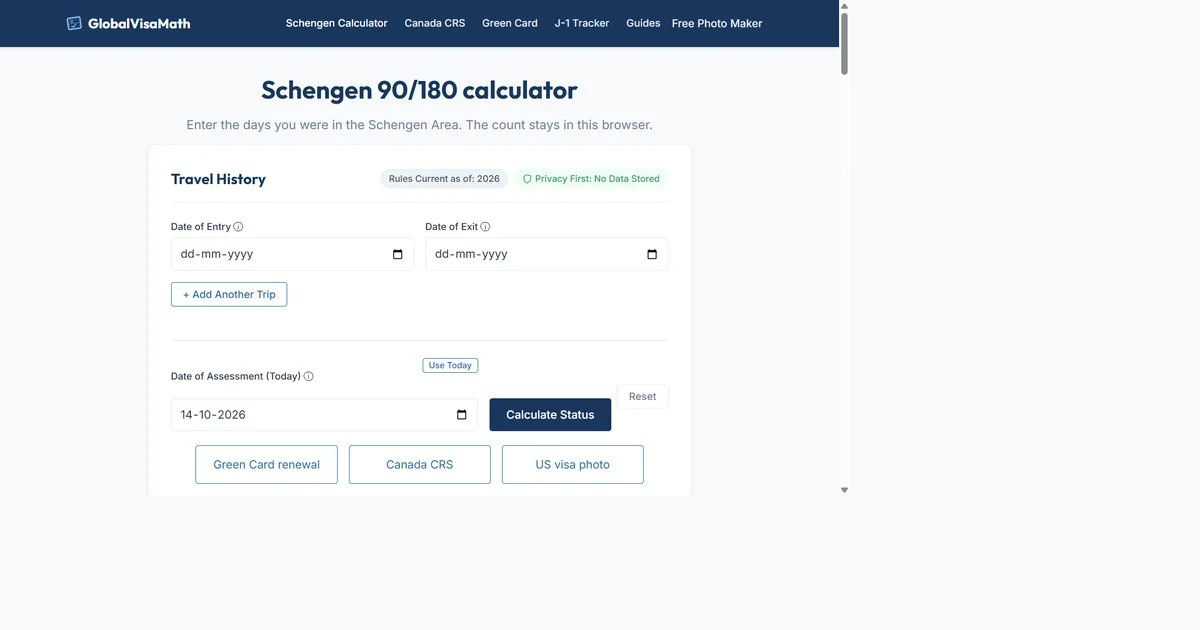
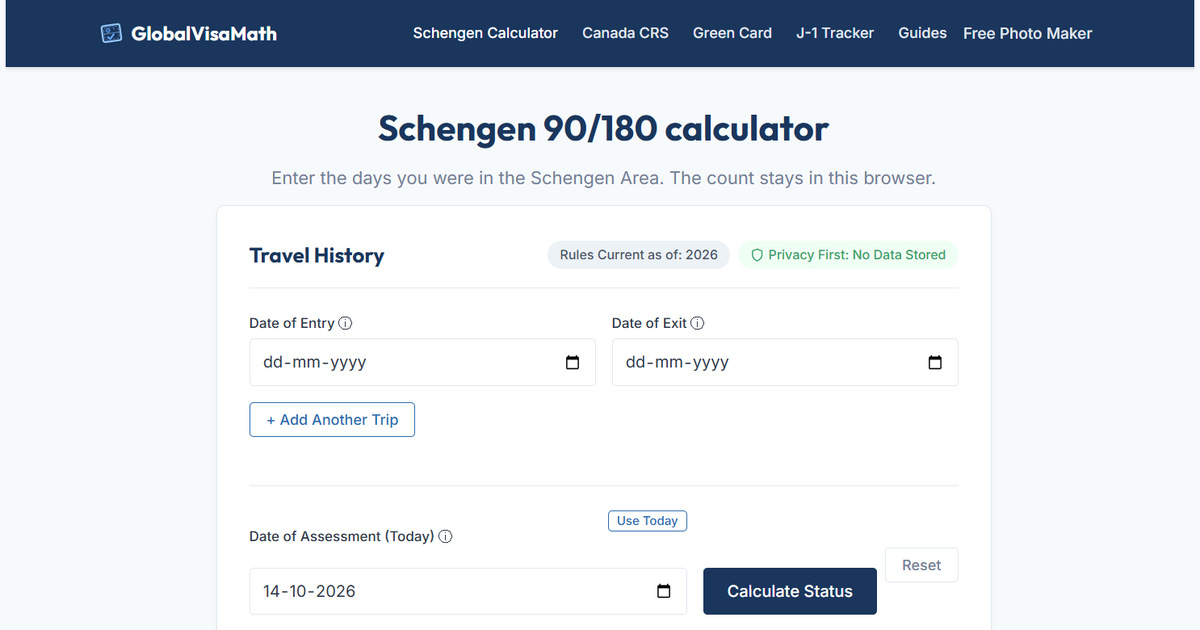
Crop the link preview to the Schengen calculator so the title stays readable.

diff --git a/canada-crs-calculator.html b/canada-crs-calculator.html
@@ -60,7 +60,7 @@
     <meta property="og:url" content="https://www.globalvisamath.com/canada-crs-calculator.html">
     <meta property="og:title" content="Canada Express Entry CRS Calculator | GlobalVisaMath">
     <meta property="og:description" content="Calculate your Canada Express Entry Comprehensive Ranking System (CRS) score. Find your points breakdown and get custom recommendations to improve your immigration score.">
-    <meta property="og:image" content="https://www.globalvisamath.com/og-image.jpg?v=3">
+    <meta property="og:image" content="https://www.globalvisamath.com/og-image.jpg?v=4">
     <meta property="og:image:width" content="1200">
     <meta property="og:image:height" content="630">
 
@@ -69,7 +69,7 @@
     <meta name="twitter:url" content="https://www.globalvisamath.com/canada-crs-calculator.html">
     <meta name="twitter:title" content="Canada Express Entry CRS Calculator | GlobalVisaMath">
     <meta name="twitter:description" content="Calculate your Canada Express Entry Comprehensive Ranking System (CRS) score. Find your points breakdown and get custom recommendations to improve your immigration score.">
-    <meta name="twitter:image" content="https://www.globalvisamath.com/og-image.jpg?v=3">
+    <meta name="twitter:image" content="https://www.globalvisamath.com/og-image.jpg?v=4">
     <script src="https://js.sentry-cdn.com/63c1a1ec186a36c011fc831229bdf952.min.js" crossorigin="anonymous"></script>
 
 </head>

diff --git a/index.html b/index.html
@@ -71,7 +71,7 @@
     <meta property="og:url" content="https://www.globalvisamath.com/">
     <meta property="og:title" content="Immigration & Visa Math Calculators | GlobalVisaMath">
     <meta property="og:description" content="Calculate visa compliance and renewal timelines using free, 100% private tools. Includes Schengen 90/180 calculator, Canada Express Entry CRS score calculator, USCIS Green Card renewal estimator, and J1 visa tracker.">
-    <meta property="og:image" content="https://www.globalvisamath.com/og-image.jpg?v=3">
+    <meta property="og:image" content="https://www.globalvisamath.com/og-image.jpg?v=4">
     <meta property="og:image:width" content="1200">
     <meta property="og:image:height" content="630">
 
@@ -80,7 +80,7 @@
     <meta name="twitter:url" content="https://www.globalvisamath.com/">
     <meta name="twitter:title" content="Immigration & Visa Math Calculators | GlobalVisaMath">
     <meta name="twitter:description" content="Calculate visa compliance and renewal timelines using free, 100% private tools. Includes Schengen 90/180 calculator, Canada Express Entry CRS score calculator, USCIS Green Card renewal estimator, and J1 visa tracker.">
-    <meta name="twitter:image" content="https://www.globalvisamath.com/og-image.jpg?v=3">
+    <meta name="twitter:image" content="https://www.globalvisamath.com/og-image.jpg?v=4">
 
     <!-- Application Schema for AI SEO -->
     <script type="application/ld+json">

diff --git a/j1-visa-tracker.html b/j1-visa-tracker.html
@@ -60,7 +60,7 @@
     <meta property="og:url" content="https://www.globalvisamath.com/j1-visa-tracker.html">
     <meta property="og:title" content="J-1 Visa Grace Period &amp; Compliance Tracker | GlobalVisaMath">
     <meta property="og:description" content="Calculate your J-1 Exchange Visitor program active duration, DS-2019 expiration, 30-day grace period travel restrictions, and USDOS insurance compliance.">
-    <meta property="og:image" content="https://www.globalvisamath.com/og-image.jpg?v=3">
+    <meta property="og:image" content="https://www.globalvisamath.com/og-image.jpg?v=4">
     <meta property="og:image:width" content="1200">
     <meta property="og:image:height" content="630">
 
@@ -69,7 +69,7 @@
     <meta name="twitter:url" content="https://www.globalvisamath.com/j1-visa-tracker.html">
     <meta name="twitter:title" content="J-1 Visa Grace Period &amp; Compliance Tracker | GlobalVisaMath">
     <meta name="twitter:description" content="Calculate your J-1 Exchange Visitor program active duration, DS-2019 expiration, 30-day grace period travel restrictions, and USDOS insurance compliance.">
-    <meta name="twitter:image" content="https://www.globalvisamath.com/og-image.jpg?v=3">
+    <meta name="twitter:image" content="https://www.globalvisamath.com/og-image.jpg?v=4">
     <script src="https://js.sentry-cdn.com/63c1a1ec186a36c011fc831229bdf952.min.js" crossorigin="anonymous"></script>
 
 </head>

diff --git a/green-card-renewal.html b/green-card-renewal.html
@@ -60,7 +60,7 @@
     <meta property="og:url" content="https://www.globalvisamath.com/green-card-renewal.html">
     <meta property="og:title" content="Green Card Renewal Calculator &amp; Timeline | GlobalVisaMath">
     <meta property="og:description" content="Calculate your USCIS Form I-90 Green Card renewal timeline. Find out when to renew, view document checklists, and get current filing fee estimates.">
-    <meta property="og:image" content="https://www.globalvisamath.com/og-image.jpg?v=3">
+    <meta property="og:image" content="https://www.globalvisamath.com/og-image.jpg?v=4">
     <meta property="og:image:width" content="1200">
     <meta property="og:image:height" content="630">
 
@@ -69,7 +69,7 @@
     <meta name="twitter:url" content="https://www.globalvisamath.com/green-card-renewal.html">
     <meta name="twitter:title" content="Green Card Renewal Calculator &amp; Timeline | GlobalVisaMath">
     <meta name="twitter:description" content="Calculate your USCIS Form I-90 Green Card renewal timeline. Find out when to renew, view document checklists, and get current filing fee estimates.">
-    <meta name="twitter:image" content="https://www.globalvisamath.com/og-image.jpg?v=3">
+    <meta name="twitter:image" content="https://www.globalvisamath.com/og-image.jpg?v=4">
     <script src="https://js.sentry-cdn.com/63c1a1ec186a36c011fc831229bdf952.min.js" crossorigin="anonymous"></script>
 
 </head>

diff --git a/privacy.html b/privacy.html
@@ -28,7 +28,7 @@
     <meta property="og:url" content="https://www.globalvisamath.com/privacy.html">
     <meta property="og:title" content="Privacy Policy - GlobalVisaMath">
     <meta property="og:description" content="Read the Privacy Policy for GlobalVisaMath. Discover how our tools process all calculations strictly client-side without storing or transmitting personal data.">
-    <meta property="og:image" content="https://www.globalvisamath.com/og-image.jpg?v=3">
+    <meta property="og:image" content="https://www.globalvisamath.com/og-image.jpg?v=4">
     <meta property="og:image:width" content="1200">
     <meta property="og:image:height" content="630">
 
@@ -37,7 +37,7 @@
     <meta name="twitter:url" content="https://www.globalvisamath.com/privacy.html">
     <meta name="twitter:title" content="Privacy Policy - GlobalVisaMath">
     <meta name="twitter:description" content="Read the Privacy Policy for GlobalVisaMath. Discover how our tools process all calculations strictly client-side without storing or transmitting personal data.">
-    <meta name="twitter:image" content="https://www.globalvisamath.com/og-image.jpg?v=3">
+    <meta name="twitter:image" content="https://www.globalvisamath.com/og-image.jpg?v=4">
     <script src="https://js.sentry-cdn.com/63c1a1ec186a36c011fc831229bdf952.min.js" crossorigin="anonymous"></script>
 
 </head>

diff --git a/about.html b/about.html
@@ -28,7 +28,7 @@
     <meta property="og:url" content="https://www.globalvisamath.com/about.html">
     <meta property="og:title" content="About Us - GlobalVisaMath">
     <meta property="og:description" content="Learn about GlobalVisaMath, our mission, privacy-first architecture, and the legal sources underpinning our travel and immigration calculators.">
-    <meta property="og:image" content="https://www.globalvisamath.com/og-image.jpg?v=3">
+    <meta property="og:image" content="https://www.globalvisamath.com/og-image.jpg?v=4">
     <meta property="og:image:width" content="1200">
     <meta property="og:image:height" content="630">
 
@@ -37,7 +37,7 @@
     <meta name="twitter:url" content="https://www.globalvisamath.com/about.html">
     <meta name="twitter:title" content="About Us - GlobalVisaMath">
     <meta name="twitter:description" content="Learn about GlobalVisaMath, our mission, privacy-first architecture, and the legal sources underpinning our travel and immigration calculators.">
-    <meta name="twitter:image" content="https://www.globalvisamath.com/og-image.jpg?v=3">
+    <meta name="twitter:image" content="https://www.globalvisamath.com/og-image.jpg?v=4">
     <script src="https://js.sentry-cdn.com/63c1a1ec186a36c011fc831229bdf952.min.js" crossorigin="anonymous"></script>
 
 </head>

diff --git a/guides/schengen-90-180-czech-republic.html b/guides/schengen-90-180-czech-republic.html
@@ -25,11 +25,11 @@
     <meta property="og:url" content="https://www.globalvisamath.com/guides/schengen-90-180-czech-republic.html">
     <meta property="og:title" content="Schengen 90/180 Rule for Czech Republic 🇨🇿 | GlobalVisaMath">
     <meta property="og:description" content="Can you visit Czech Republic? Use our free Schengen 90/180 day calculator to check your compliance before traveling to Prague or anywhere in Czech Republic.">
-    <meta property="og:image" content="https://www.globalvisamath.com/og-image.jpg?v=3">
+    <meta property="og:image" content="https://www.globalvisamath.com/og-image.jpg?v=4">
     <meta name="twitter:card" content="summary_large_image">
     <meta name="twitter:title" content="Schengen 90/180 Rule for Czech Republic 🇨🇿 | GlobalVisaMath">
     <meta name="twitter:description" content="Can you visit Czech Republic? Use our free Schengen 90/180 day calculator to check your compliance before traveling to Prague or anywhere in Czech Republic.">
-    <meta name="twitter:image" content="https://www.globalvisamath.com/og-image.jpg?v=3">
+    <meta name="twitter:image" content="https://www.globalvisamath.com/og-image.jpg?v=4">
     <script src="https://js.sentry-cdn.com/63c1a1ec186a36c011fc831229bdf952.min.js" crossorigin="anonymous"></script>
 
   <style>

diff --git a/terms.html b/terms.html
@@ -28,7 +28,7 @@
     <meta property="og:url" content="https://www.globalvisamath.com/terms.html">
     <meta property="og:title" content="Terms of Service - GlobalVisaMath">
     <meta property="og:description" content="Read the Terms of Service for GlobalVisaMath. Understand our rules of use, calculations disclaimer, and informational-only policy.">
-    <meta property="og:image" content="https://www.globalvisamath.com/og-image.jpg?v=3">
+    <meta property="og:image" content="https://www.globalvisamath.com/og-image.jpg?v=4">
     <meta property="og:image:width" content="1200">
     <meta property="og:image:height" content="630">
 
@@ -37,7 +37,7 @@
     <meta name="twitter:url" content="https://www.globalvisamath.com/terms.html">
     <meta name="twitter:title" content="Terms of Service - GlobalVisaMath">
     <meta name="twitter:description" content="Read the Terms of Service for GlobalVisaMath. Understand our rules of use, calculations disclaimer, and informational-only policy.">
-    <meta name="twitter:image" content="https://www.globalvisamath.com/og-image.jpg?v=3">
+    <meta name="twitter:image" content="https://www.globalvisamath.com/og-image.jpg?v=4">
     <script src="https://js.sentry-cdn.com/63c1a1ec186a36c011fc831229bdf952.min.js" crossorigin="anonymous"></script>
 
 </head>

diff --git a/guides/schengen-90-180-netherlands.html b/guides/schengen-90-180-netherlands.html
@@ -25,11 +25,11 @@
     <meta property="og:url" content="https://www.globalvisamath.com/guides/schengen-90-180-netherlands.html">
     <meta property="og:title" content="Schengen 90/180 Rule for Netherlands 🇳🇱 | GlobalVisaMath">
     <meta property="og:description" content="Can you visit Netherlands? Use our free Schengen 90/180 day calculator to check your compliance before traveling to Amsterdam or anywhere in Netherlands.">
-    <meta property="og:image" content="https://www.globalvisamath.com/og-image.jpg?v=3">
+    <meta property="og:image" content="https://www.globalvisamath.com/og-image.jpg?v=4">
     <meta name="twitter:card" content="summary_large_image">
     <meta name="twitter:title" content="Schengen 90/180 Rule for Netherlands 🇳🇱 | GlobalVisaMath">
     <meta name="twitter:description" content="Can you visit Netherlands? Use our free Schengen 90/180 day calculator to check your compliance before traveling to Amsterdam or anywhere in Netherlands.">
-    <meta name="twitter:image" content="https://www.globalvisamath.com/og-image.jpg?v=3">
+    <meta name="twitter:image" content="https://www.globalvisamath.com/og-image.jpg?v=4">
     <script src="https://js.sentry-cdn.com/63c1a1ec186a36c011fc831229bdf952.min.js" crossorigin="anonymous"></script>
 
   <style>

diff --git a/contact.html b/contact.html
@@ -28,7 +28,7 @@
     <meta property="og:url" content="https://www.globalvisamath.com/contact.html">
     <meta property="og:title" content="Contact Us - GlobalVisaMath">
     <meta property="og:description" content="Contact the GlobalVisaMath team with questions, feedback, corrections, or suggestions for new visa and immigration calculators.">
-    <meta property="og:image" content="https://www.globalvisamath.com/og-image.jpg?v=3">
+    <meta property="og:image" content="https://www.globalvisamath.com/og-image.jpg?v=4">
     <meta property="og:image:width" content="1200">
     <meta property="og:image:height" content="630">
 
@@ -37,7 +37,7 @@
     <meta name="twitter:url" content="https://www.globalvisamath.com/contact.html">
     <meta name="twitter:title" content="Contact Us - GlobalVisaMath">
     <meta name="twitter:description" content="Contact the GlobalVisaMath team with questions, feedback, corrections, or suggestions for new visa and immigration calculators.">
-    <meta name="twitter:image" content="https://www.globalvisamath.com/og-image.jpg?v=3">
+    <meta name="twitter:image" content="https://www.globalvisamath.com/og-image.jpg?v=4">
     <script src="https://js.sentry-cdn.com/63c1a1ec186a36c011fc831229bdf952.min.js" crossorigin="anonymous"></script>
 
 </head>

diff --git a/guides/uae-resident-schengen-visa-calculator.html b/guides/uae-resident-schengen-visa-calculator.html
@@ -25,11 +25,11 @@
     <meta property="og:url" content="https://www.globalvisamath.com/guides/uae-resident-schengen-visa-calculator.html">
     <meta property="og:title" content="Schengen 90/180 Calculator for UAE resident Passport Holders | GlobalVisaMath">
     <meta property="og:description" content="UAE resident passport holders: check your Schengen 90/180 day compliance before visiting Europe. Free, private, instant calculator.">
-    <meta property="og:image" content="https://www.globalvisamath.com/og-image.jpg?v=3">
+    <meta property="og:image" content="https://www.globalvisamath.com/og-image.jpg?v=4">
     <meta name="twitter:card" content="summary_large_image">
     <meta name="twitter:title" content="Schengen 90/180 Calculator for UAE resident Passport Holders | GlobalVisaMath">
     <meta name="twitter:description" content="UAE resident passport holders: check your Schengen 90/180 day compliance before visiting Europe. Free, private, instant calculator.">
-    <meta name="twitter:image" content="https://www.globalvisamath.com/og-image.jpg?v=3">
+    <meta name="twitter:image" content="https://www.globalvisamath.com/og-image.jpg?v=4">
     <script src="https://js.sentry-cdn.com/63c1a1ec186a36c011fc831229bdf952.min.js" crossorigin="anonymous"></script>
 
   <style>

diff --git a/guides/schengen-90-180-switzerland.html b/guides/schengen-90-180-switzerland.html
@@ -25,11 +25,11 @@
     <meta property="og:url" content="https://www.globalvisamath.com/guides/schengen-90-180-switzerland.html">
     <meta property="og:title" content="Schengen 90/180 Rule for Switzerland 🇨🇭 | GlobalVisaMath">
     <meta property="og:description" content="Can you visit Switzerland? Use our free Schengen 90/180 day calculator to check your compliance before traveling to Bern or anywhere in Switzerland.">
-    <meta property="og:image" content="https://www.globalvisamath.com/og-image.jpg?v=3">
+    <meta property="og:image" content="https://www.globalvisamath.com/og-image.jpg?v=4">
     <meta name="twitter:card" content="summary_large_image">
     <meta name="twitter:title" content="Schengen 90/180 Rule for Switzerland 🇨🇭 | GlobalVisaMath">
     <meta name="twitter:description" content="Can you visit Switzerland? Use our free Schengen 90/180 day calculator to check your compliance before traveling to Bern or anywhere in Switzerland.">
-    <meta name="twitter:image" content="https://www.globalvisamath.com/og-image.jpg?v=3">
+    <meta name="twitter:image" content="https://www.globalvisamath.com/og-image.jpg?v=4">
     <script src="https://js.sentry-cdn.com/63c1a1ec186a36c011fc831229bdf952.min.js" crossorigin="anonymous"></script>
 
   <style>
